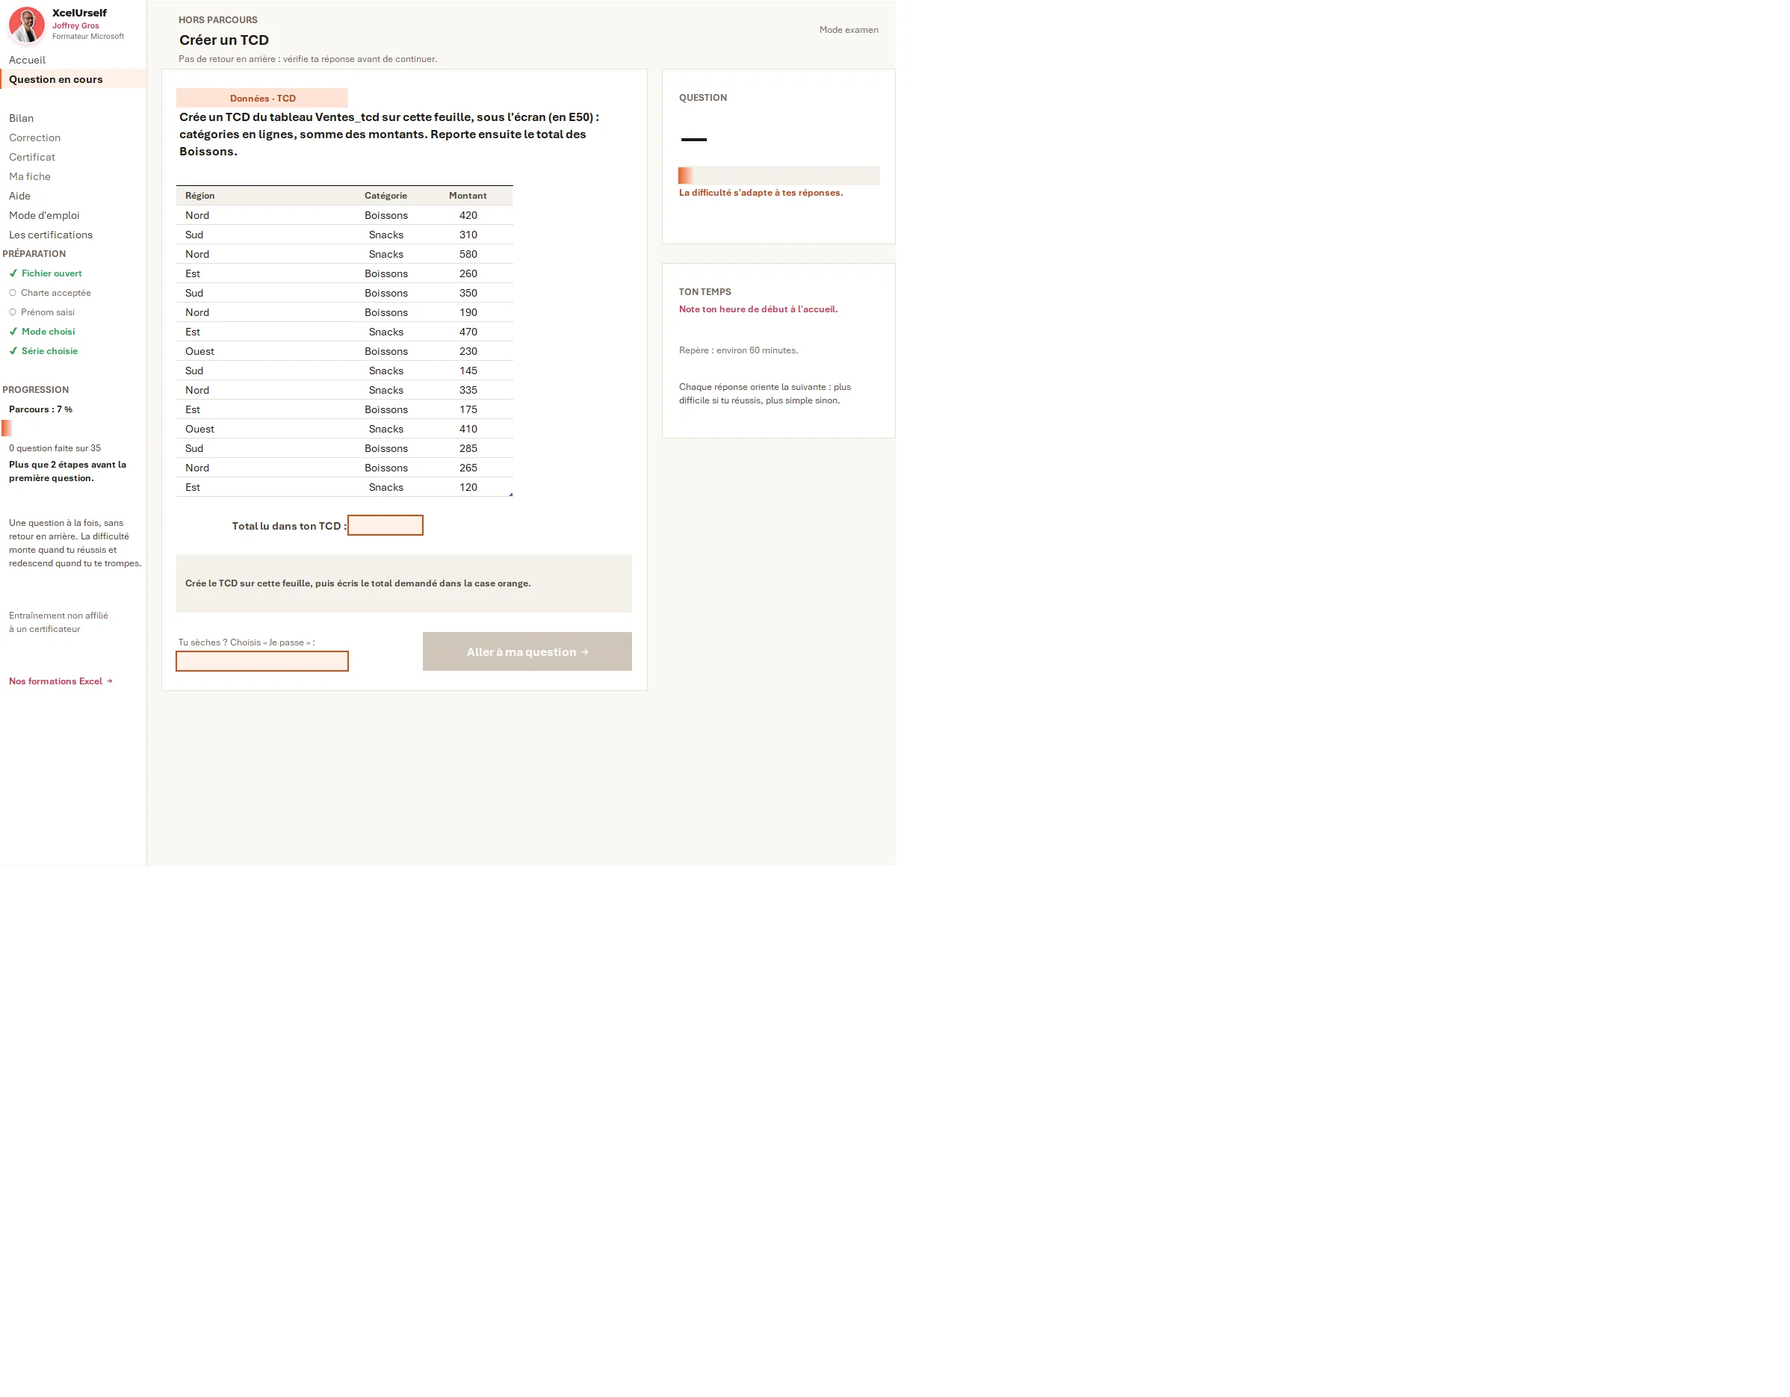
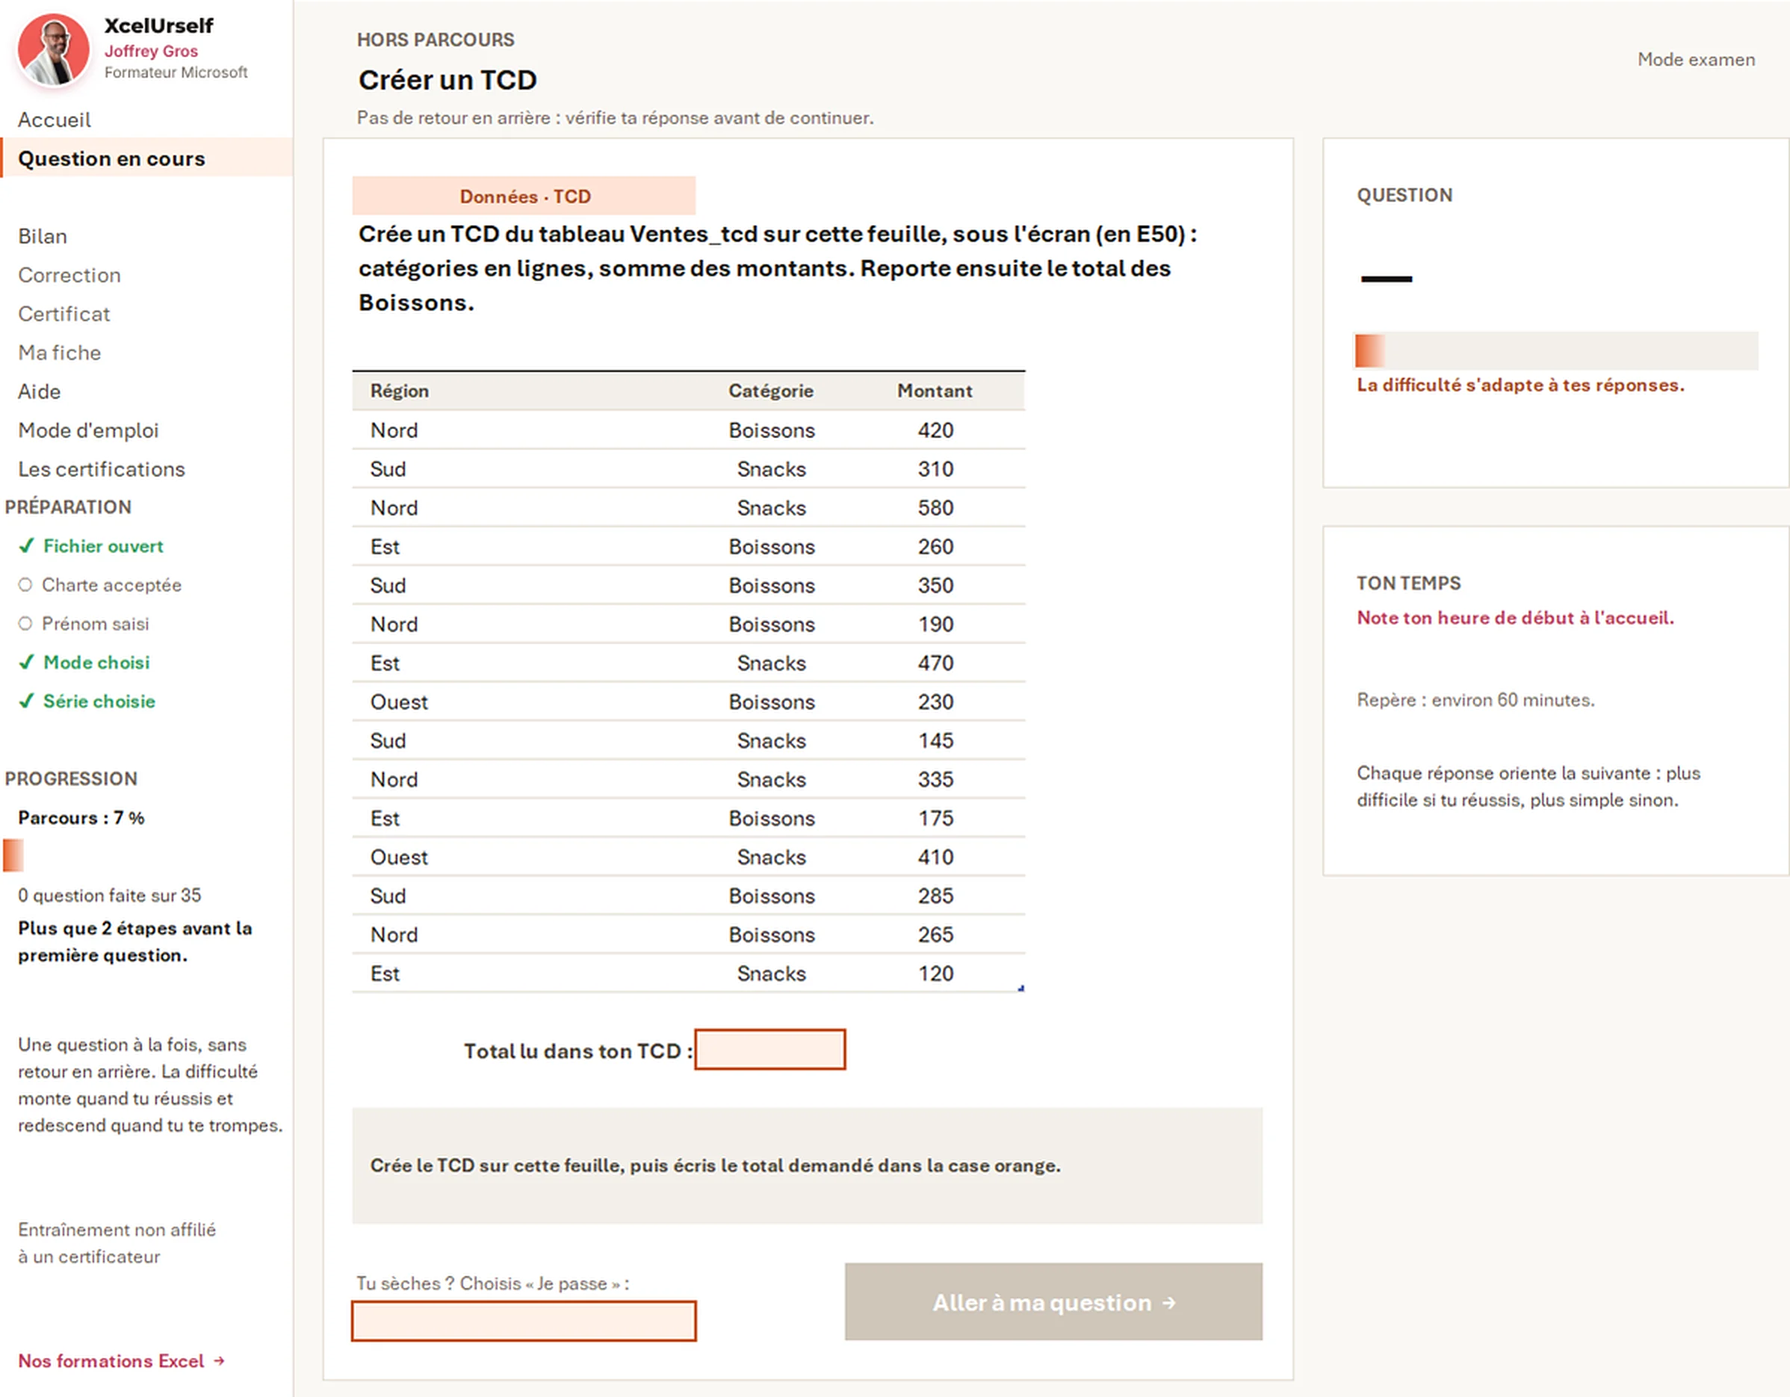
Visite et tableau de bord : image d'accueil nette, cadres de surbrillance recalés, légende à l'opposé de la zone

diff --git a/simulation-excel-organismes.html b/simulation-excel-organismes.html
@@ -258,6 +258,8 @@ footer a{text-decoration:underline;text-underline-offset:3px}
 .hz-z:hover,.hz-z.on,.hz-z:focus-visible{border:2px solid var(--pink);background:rgba(254,58,126,.12);outline:none}
 .hz-leg{position:absolute;left:.7rem;right:.7rem;bottom:.7rem;background:var(--ink);color:#fff;border-radius:10px;padding:.65rem .9rem;font-size:.82rem;line-height:1.45;opacity:0;transform:translateY(6px);pointer-events:none;transition:opacity .2s ease,transform .25s var(--ease-out)}
 .hz-leg.on{opacity:1;transform:none}
+.hz-leg.top{bottom:auto;top:.7rem}
+
 .hz-leg b{display:block;font-size:.84rem;margin-bottom:.1rem;color:#fff}
 .hz-leg b::before{content:"";display:inline-block;width:.55rem;height:.55rem;border-radius:50%;background:var(--pink);margin-right:.45rem}
 .hz-open{position:absolute;top:.6rem;right:.6rem;line-height:1.2;font:inherit;font-size:.74rem;font-weight:800;color:#1a1714;background:var(--pink);border:0;border-radius:100px;min-height:44px;padding:.45rem 1rem;cursor:pointer;box-shadow:0 4px 14px rgba(43,39,36,.25);transition:transform .15s var(--ease-out)}
@@ -352,8 +354,8 @@ dialog.lb::backdrop{background:rgba(26,23,20,.82)}
       </div>
       <div class="win"><div class="bar" aria-hidden="true"><i></i><i></i><i></i><span>Simulation Excel.xlsx</span></div>
         <div class="tview" id="vview" role="tabpanel" aria-labelledby="vt0"><span class="fict">Exemple : identités inventées, pas de vraies personnes</span>
-          <div class="tstage" data-w="1198" data-h="672" data-max="2.3"><img src="img/tour-accueil.webp?v=2" width="1198" height="672" decoding="async" alt="Écran d'accueil du fichier de simulation : bannière, présentation du parcours, menu de navigation avec progression, réglages du prénom, du mode et de la série."/><i class="hl"></i></div>
-          <div class="tstage" data-w="1198" data-h="935" data-max="2.3"><img src="img/simulation-question-tcd.webp?v=2" width="1198" height="935" loading="lazy" decoding="async" alt="Écran d'une question : créer un tableau croisé dynamique, avec le menu de gauche et la progression du parcours."/><i class="hl"></i></div>
+          <div class="tstage" data-w="1198" data-h="672" data-max="1.7"><img src="img/tour-accueil.webp?v=3" width="1198" height="672" decoding="async" alt="Écran d'accueil du fichier de simulation : bannière, présentation du parcours, menu de navigation avec progression, réglages du prénom, du mode et de la série."/><i class="hl"></i></div>
+          <div class="tstage" data-w="1198" data-h="935" data-max="1.7"><img src="img/simulation-question-tcd.webp?v=3" width="1198" height="935" loading="lazy" decoding="async" alt="Écran d'une question : créer un tableau croisé dynamique, avec le menu de gauche et la progression du parcours."/><i class="hl"></i></div>
           <div class="tstage" data-w="1270" data-h="972" data-max="1.6"><img src="img/tour-bilan.webp?v=2" width="1270" height="972" loading="lazy" decoding="async" alt="Écran du bilan : score sur 1000, niveau, réussite par domaine, radar de profil, plan de révision et code résultat à envoyer au formateur."/><i class="hl"></i></div>
           <div class="tstage" data-w="1304" data-h="953" data-max="1.6"><img src="img/tour-certificat.webp?v=2" width="1304" height="953" loading="lazy" decoding="async" alt="Écran du certificat d'entraînement : nom du stagiaire, score sur 1000, niveau estimé, nombre de questions et réussite par domaine."/><i class="hl"></i></div>
           <div class="tstage" data-w="1249" data-h="1004" data-max="1.6"><img src="img/tour-niveaux.webp?v=2" width="1249" height="1004" loading="lazy" decoding="async" alt="Écran « Les certifications Excel en bref » : fonctionnement d'un test adaptatif, les cinq niveaux de la simulation et conseils pour le jour J."/><i class="hl"></i></div>
@@ -754,33 +756,33 @@ dialog.lb::backdrop{background:rgba(26,23,20,.82)}
         {r:[876,108,330,490],l:"Difficulté adaptative",t:"Le parcours s'adapte à chaque réponse, avec un repère de temps : environ 60 minutes."}]},
       {shots:[
         {r:null,t:"À la dernière question, le bilan s'affiche tout de suite."},
-        {r:[240,190,640,170],l:"Score et niveau",t:"Le score sur 1000 et le niveau, avec un message personnalisé."},
-        {r:[888,82,338,386],l:"Radar de profil",t:"Un radar de profil par domaine, face au seuil de maîtrise de 80 %."},
-        {r:[240,365,650,262],l:"4 domaines",t:"Les quatre domaines : maîtrisé, à consolider, à revoir, avec accès aux erreurs."},
-        {r:[240,610,650,260],l:"Plan de révision",t:"Un plan de révision sur mesure : chaque point faible renvoie vers la formation ou la fiche qui correspond."},
-        {r:[900,472,328,368],l:"Code résultat",t:"Un code résultat anonyme à envoyer au formateur : prénom choisi, score et réussites, rien d'autre."}]},
+        {r:[248,196,616,160],l:"Score et niveau",t:"Le score sur 1000 et le niveau, avec un message personnalisé."},
+        {r:[900,92,314,364],l:"Radar de profil",t:"Un radar de profil par domaine, face au seuil de maîtrise de 80 %."},
+        {r:[248,354,616,262],l:"4 domaines",t:"Les quatre domaines : maîtrisé, à consolider, à revoir, avec accès aux erreurs."},
+        {r:[248,614,616,262],l:"Plan de révision",t:"Un plan de révision sur mesure : chaque point faible renvoie vers la formation ou la fiche qui correspond."},
+        {r:[900,482,314,322],l:"Code résultat",t:"Un code résultat anonyme à envoyer au formateur : prénom choisi, score et réussites, rien d'autre."}]},
       {shots:[
         {r:null,t:"Chaque stagiaire repart avec un certificat d'entraînement personnalisé."},
-        {r:[236,106,968,76],l:"Certificat d'entraînement",t:"Un certificat d'entraînement au nom du stagiaire, aux couleurs du fichier."},
-        {r:[240,318,964,102],l:"Score, niveau, questions",t:"Le score sur 1000, le niveau estimé et le nombre de questions traitées."},
-        {r:[470,422,500,70],l:"Domaines et distinctions",t:"La réussite par domaine et des distinctions, comme « Question Expert réussie »."},
-        {r:[300,500,860,92],l:"Mention claire",t:"Mention explicite : score indicatif, non affilié à un organisme certificateur, document qui n'est pas une certification."}]},
+        {r:[247,114,946,196],l:"Certificat d'entraînement",t:"Un certificat d'entraînement au nom du stagiaire, aux couleurs du fichier."},
+        {r:[247,328,946,80],l:"Score, niveau, questions",t:"Le score sur 1000, le niveau estimé et le nombre de questions traitées."},
+        {r:[494,430,462,52],l:"Domaines et distinctions",t:"La réussite par domaine et des distinctions, comme « Question Expert réussie »."},
+        {r:[330,508,780,78],l:"Mention claire",t:"Mention explicite : score indicatif, non affilié à un organisme certificateur, document qui n'est pas une certification."}]},
       {shots:[
         {r:null,t:"Un écran pédagogique explique le principe du test adaptatif et les niveaux."},
-        {r:[236,270,968,142],l:"Test adaptatif",t:"Le principe du test adaptatif expliqué simplement : questions plus difficiles si l'on réussit, plus simples sinon."},
-        {r:[236,440,968,314],l:"Les 5 niveaux",t:"Les 5 niveaux de la simulation, de Initial à Expert, avec la plage de score et ce que le stagiaire sait faire."},
-        {r:[236,886,968,112],l:"Conseils du jour J",t:"Des conseils pour le jour J : lire la consigne, gérer son temps, vérifier ses références."}]},
+        {r:[248,276,746,130],l:"Test adaptatif",t:"Le principe du test adaptatif expliqué simplement : questions plus difficiles si l'on réussit, plus simples sinon."},
+        {r:[248,432,944,314],l:"Les 5 niveaux",t:"Les 5 niveaux de la simulation, de Initial à Expert, avec la plage de score et ce que le stagiaire sait faire."},
+        {r:[248,900,600,102],l:"Conseils du jour J",t:"Des conseils pour le jour J : lire la consigne, gérer son temps, vérifier ses références."}]},
       {shots:[
         {r:null,t:"Le formateur colle les codes reçus : le fichier contrôle chacun d'eux."},
-        {r:[240,100,980,68],l:"Un code par ligne",t:"Un code par ligne, copié depuis Forms ou un e-mail. Le contrôle signale les doublons et les codes mal copiés."},
-        {r:[240,160,470,170],l:"Codes collés",t:"Les codes collés dans la colonne orange, jusqu'à 300 par tableau de bord."},
-        {r:[690,186,515,330],l:"Contrôle et décodage",t:"Chaque code est vérifié (OK), puis décodé : stagiaire, score et type de test. Sans macro."}]},
+        {r:[244,108,940,56],l:"Un code par ligne",t:"Un code par ligne, copié depuis Forms ou un e-mail. Le contrôle signale les doublons et les codes mal copiés."},
+        {r:[244,168,462,160],l:"Codes collés",t:"Les codes collés dans la colonne orange, jusqu'à 300 par tableau de bord."},
+        {r:[698,196,500,330],l:"Contrôle et décodage",t:"Chaque code est vérifié (OK), puis décodé : stagiaire, score et type de test. Sans macro."}]},
       {shots:[
         {r:null,t:"Et la promo se lit d'un coup d'œil, sans aucun calcul à faire."},
-        {r:[238,82,992,150],l:"Chiffres clés",t:"Effectif, score moyen, niveau le plus fréquent et réussite globale, d'un coup d'œil."},
-        {r:[238,262,630,340],l:"Niveaux et domaines",t:"La répartition de la promo par niveau et la réussite par domaine."},
-        {r:[892,238,328,350],l:"Profil de la promo",t:"Le profil de la promo face au seuil de maîtrise."},
-        {r:[238,604,630,240],l:"À retravailler",t:"Le point faible de la promo et les notions à retravailler en priorité. (Exemple de démonstration : identités inventées.)"}]}
+        {r:[246,86,950,140],l:"Chiffres clés",t:"Effectif, score moyen, niveau le plus fréquent et réussite globale, d'un coup d'œil."},
+        {r:[246,270,616,322],l:"Niveaux et domaines",t:"La répartition de la promo par niveau et la réussite par domaine."},
+        {r:[904,272,300,432],l:"Profil de la promo",t:"Le profil de la promo face au seuil de maîtrise."},
+        {r:[246,608,616,236],l:"À retravailler",t:"Le point faible de la promo et les notions à retravailler en priorité. (Exemple de démonstration : identités inventées.)"}]}
     ];
     var root=document.getElementById('visite'); if(!root)return;
     var view=document.getElementById('vview'),stages=[].slice.call(view.querySelectorAll('.tstage')),
@@ -846,35 +848,39 @@ dialog.lb::backdrop{background:rgba(26,23,20,.82)}
   (function(){
     var HZ={
       promo:{w:1240,h:934,src:'img/tableau-de-bord-ma-promo.webp?v=2',title:'Tableau de bord formateur · Ma promo',alt:'Écran « Ma promo » du tableau de bord formateur avec une promo de 22 stagiaires.',z:[
-        [[10,65,200,320],'Menu','Navigation : Ma promo, Stagiaires, Questions, Coller les codes, Rapport.'],
-        [[248,90,972,130],'Chiffres clés','Effectif, score moyen, niveau le plus fréquent et réussite globale de la promo.'],
-        [[248,275,610,160],'Répartition par niveau','Combien de stagiaires à chaque niveau, de Initial à Expert.'],
-        [[248,458,610,135],'Réussite par domaine','Environnement, calculs, mise en forme, données : réussite et nombre de bonnes réponses.'],
-        [[248,612,610,24],'Point faible','Le domaine le plus fragile de la promo, repéré automatiquement.'],
-        [[248,637,610,26],'Question défi','La question la plus difficile : combien de stagiaires l\'ont reçue et réussie.'],
-        [[248,668,610,170],'Notions à travailler','Les notions les plus ratées par la promo, à retravailler en priorité.'],
-        [[905,270,300,420],'Profil de la promo','Réussite par domaine face au seuil de maîtrise de 80 %.'],
-        [[918,712,274,140],'Accès rapides','Un clic vers la liste des stagiaires ou vers le rapport imprimable.']]},
+        [[8,62,204,320],'Menu','Navigation : Ma promo, Stagiaires, Questions, Coller les codes, Rapport.'],
+        [[246,88,948,136],'Chiffres clés','Effectif, score moyen, niveau le plus fréquent et réussite globale de la promo.'],
+        [[246,274,616,162],'Répartition par niveau','Combien de stagiaires à chaque niveau, de Initial à Expert.'],
+        [[246,456,616,132],'Réussite par domaine','Environnement, calculs, mise en forme, données : réussite et nombre de bonnes réponses.'],
+        [[246,612,266,24],'Point faible','Le domaine le plus fragile de la promo, repéré automatiquement.'],
+        [[246,634,614,30],'Question défi','La question la plus difficile : combien de stagiaires l\'ont reçue et réussie.'],
+        [[246,666,616,176],'Notions à travailler','Les notions les plus ratées par la promo, à retravailler en priorité.'],
+        [[904,272,300,432],'Profil de la promo','Réussite par domaine face au seuil de maîtrise de 80 %.'],
+        [[914,708,282,142],'Accès rapides','Un clic vers la liste des stagiaires ou vers le rapport imprimable.']
+      ]},
       stagiaires:{w:1239,h:788,src:'img/tableau-de-bord-stagiaires.webp?v=2',title:'Tableau de bord formateur · Stagiaires',alt:'Écran « Stagiaires » : les 22 stagiaires classés par score, avec leur niveau et leur réussite par domaine.',z:[
-        [[250,166,232,604],'Classement','Une ligne par stagiaire, classée du meilleur au plus faible score.'],
-        [[483,166,98,604],'Score','Le score sur 1000 de chaque stagiaire.'],
-        [[581,166,120,604],'Niveau','Le niveau estimé, de Initial à Expert.'],
-        [[701,166,220,604],'Questions posées','Le nombre de questions reçues par chaque stagiaire.'],
-        [[921,166,272,604],'Réussite par domaine','Environnement, calculs, mise en forme, données : rouge à renforcer, vert maîtrisé.']]},
+        [[248,166,236,604],'Classement','Une ligne par stagiaire, classée du meilleur au plus faible score.'],
+        [[482,166,100,604],'Score','Le score sur 1000 de chaque stagiaire.'],
+        [[580,166,122,604],'Niveau','Le niveau estimé, de Initial à Expert.'],
+        [[700,166,222,604],'Questions posées','Le nombre de questions reçues par chaque stagiaire.'],
+        [[920,166,274,604],'Réussite par domaine','Environnement, calculs, mise en forme, données : rouge à renforcer, vert maîtrisé.']
+      ]},
       codes:{w:1285,h:878,src:'img/tableau-de-bord-codes.webp?v=2',title:'Tableau de bord formateur · Coller les codes',alt:'Écran « Coller les codes » : 22 codes résultat collés, tous contrôlés valides, avec le stagiaire, le score et le type de test.',z:[
-        [[250,112,960,48],'Consigne','Un code par ligne, copié depuis Forms ou un e-mail. Collage en valeurs seules.'],
-        [[250,170,300,24],'Compteur','Combien de codes sont valides et combien restent à vérifier.'],
-        [[249,194,452,600],'Codes résultat','La colonne où l\'on colle les codes reçus des stagiaires, jusqu\'à 300.'],
-        [[700,194,160,600],'Contrôle','OK si le code est valide ; sinon Doublon, Code altéré ou Code invalide.'],
-        [[858,194,336,600],'Décodage','Le fichier lit le code : stagiaire, score et type de test, sans macro.']]},
+        [[248,112,926,44],'Consigne','Un code par ligne, copié depuis Forms ou un e-mail. Collage en valeurs seules.'],
+        [[248,170,192,22],'Compteur','Combien de codes sont valides et combien restent à vérifier.'],
+        [[248,198,454,598],'Codes résultat','La colonne où l\'on colle les codes reçus des stagiaires, jusqu\'à 300.'],
+        [[700,198,160,598],'Contrôle','OK si le code est valide ; sinon Doublon, Code altéré ou Code invalide.'],
+        [[860,198,334,598],'Décodage','Le fichier lit le code : stagiaire, score et type de test, sans macro.']
+      ]},
       rapport:{w:1226,h:932,src:'img/tableau-de-bord-rapport.webp?v=2',title:'Tableau de bord formateur · Rapport',alt:'Écran « Rapport » : rapport de promotion d\'une page avec chiffres clés, répartition par niveau, réussite par domaine et notions à travailler.',z:[
-        [[249,115,942,56],'Titre du rapport','Le nom de la promo ou de l\'organisme et la date, repris automatiquement.'],
-        [[249,222,942,78],'Chiffres clés','Stagiaires, score moyen, niveau le plus fréquent, réussite globale.'],
-        [[249,326,430,158],'Répartition par niveau','Le nombre de stagiaires à chaque niveau.'],
-        [[702,326,490,158],'Réussite par domaine','La réussite de la promo dans chaque domaine, et son point faible.'],
-        [[249,508,500,108],'À travailler en priorité','Les notions les plus ratées, pour orienter la suite de la formation.'],
-        [[330,638,780,24],'Méthode','Rappel de la méthode : test adaptatif, score indicatif sur 1000.'],
-        [[420,688,600,54],'Signature','Votre nom et vos mentions, prêtes à imprimer ou à exporter en PDF.']]}
+        [[247,112,946,80],'Titre du rapport','Le nom de la promo ou de l\'organisme et la date, repris automatiquement.'],
+        [[247,222,946,78],'Chiffres clés','Stagiaires, score moyen, niveau le plus fréquent, réussite globale.'],
+        [[247,326,456,158],'Répartition par niveau','Le nombre de stagiaires à chaque niveau.'],
+        [[700,326,462,156],'Réussite par domaine','La réussite de la promo dans chaque domaine, et son point faible.'],
+        [[247,508,310,100],'À travailler en priorité','Les notions les plus ratées, pour orienter la suite de la formation.'],
+        [[346,638,748,24],'Méthode','Rappel de la méthode : test adaptatif, score indicatif sur 1000.'],
+        [[428,688,586,52],'Signature','Votre nom et vos mentions, prêtes à imprimer ou à exporter en PDF.']
+      ]}
     };
     function pc(v,t){return (v/t*100).toFixed(3)+'%';}
     function enhance(host,key,legEl,withOpen){
@@ -883,7 +889,7 @@ dialog.lb::backdrop{background:rgba(26,23,20,.82)}
       function show(i){
         var zs=host.querySelectorAll('.hz-z');[].forEach.call(zs,function(z,j){z.classList.toggle('on',j===i);});
         on=i;
-        if(own){if(i===null){leg.classList.remove('on');}else{leg.innerHTML='<b></b><span></span>';leg.firstChild.textContent=d.z[i][1];leg.lastChild.textContent=d.z[i][2];leg.classList.add('on');}}
+        if(own){if(i===null){leg.classList.remove('on');}else{leg.classList.toggle('top',(d.z[i][0][1]+d.z[i][0][3]/2)/d.h>.5);leg.innerHTML='<b></b><span></span>';leg.firstChild.textContent=d.z[i][1];leg.lastChild.textContent=d.z[i][2];leg.classList.add('on');}}
         else{if(i===null){leg.className='lb-leg idle';leg.textContent='Survolez ou touchez une zone de l\'image pour sa légende.';}else{leg.className='lb-leg';leg.innerHTML='<b></b><span></span>';leg.firstChild.textContent=d.z[i][1]+' ·';leg.lastChild.textContent=d.z[i][2];}}
       }
       d.z.forEach(function(z,i){
